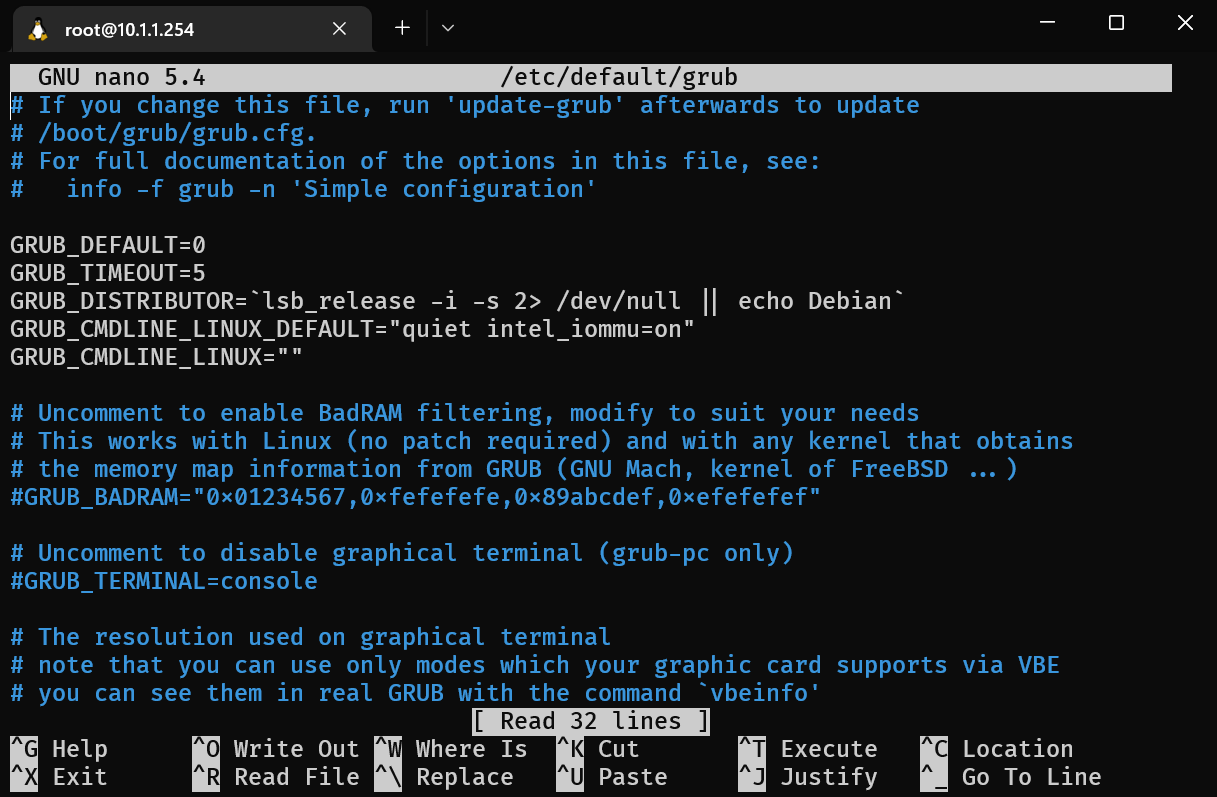
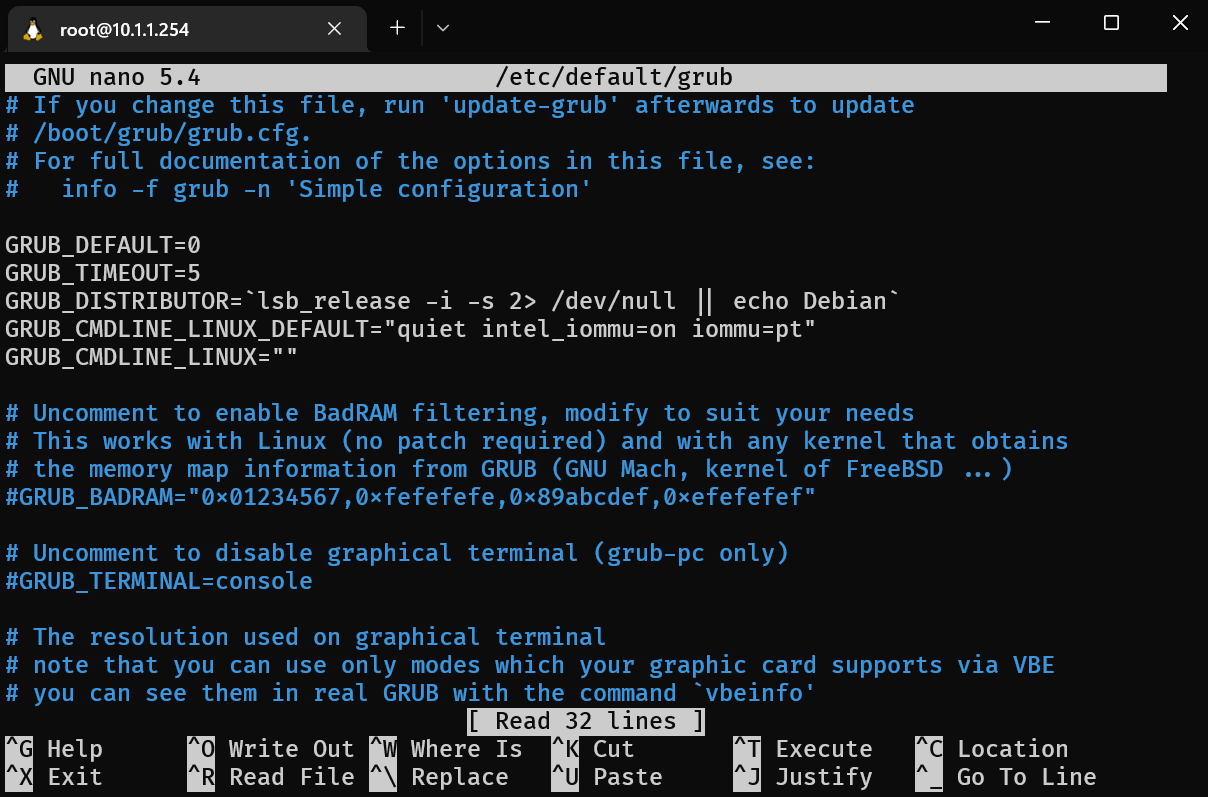
update

diff --git a/docs/virtualization/2-proxmox/3-first-tweaks.md b/docs/virtualization/2-proxmox/3-first-tweaks.md
@@ -124,8 +124,8 @@ nano /etc/default/grub
 ```
 
 - Edit `GRUB_CMDLINE_LINUX_DEFAULT` line
-  - Intel: `GRUB_CMDLINE_LINUX_DEFAULT="quiet intel_iommu=on"`
-  - AMD: `GRUB_CMDLINE_LINUX_DEFAULT="quiet amd_iommu=on"`
+  - Intel: `GRUB_CMDLINE_LINUX_DEFAULT="quiet intel_iommu=on iommu=pt"`
+  - AMD: `GRUB_CMDLINE_LINUX_DEFAULT="quiet amd_iommu=on iommu=pt"`
 - Press <kbd>CTRL</kbd> + <kbd>S</kbd> to save
 - Press <kbd>CTRL</kbd> + <kbd>X</kbd> to exit
   ![etc-grub](img/proxmox-etc-grub.png)
